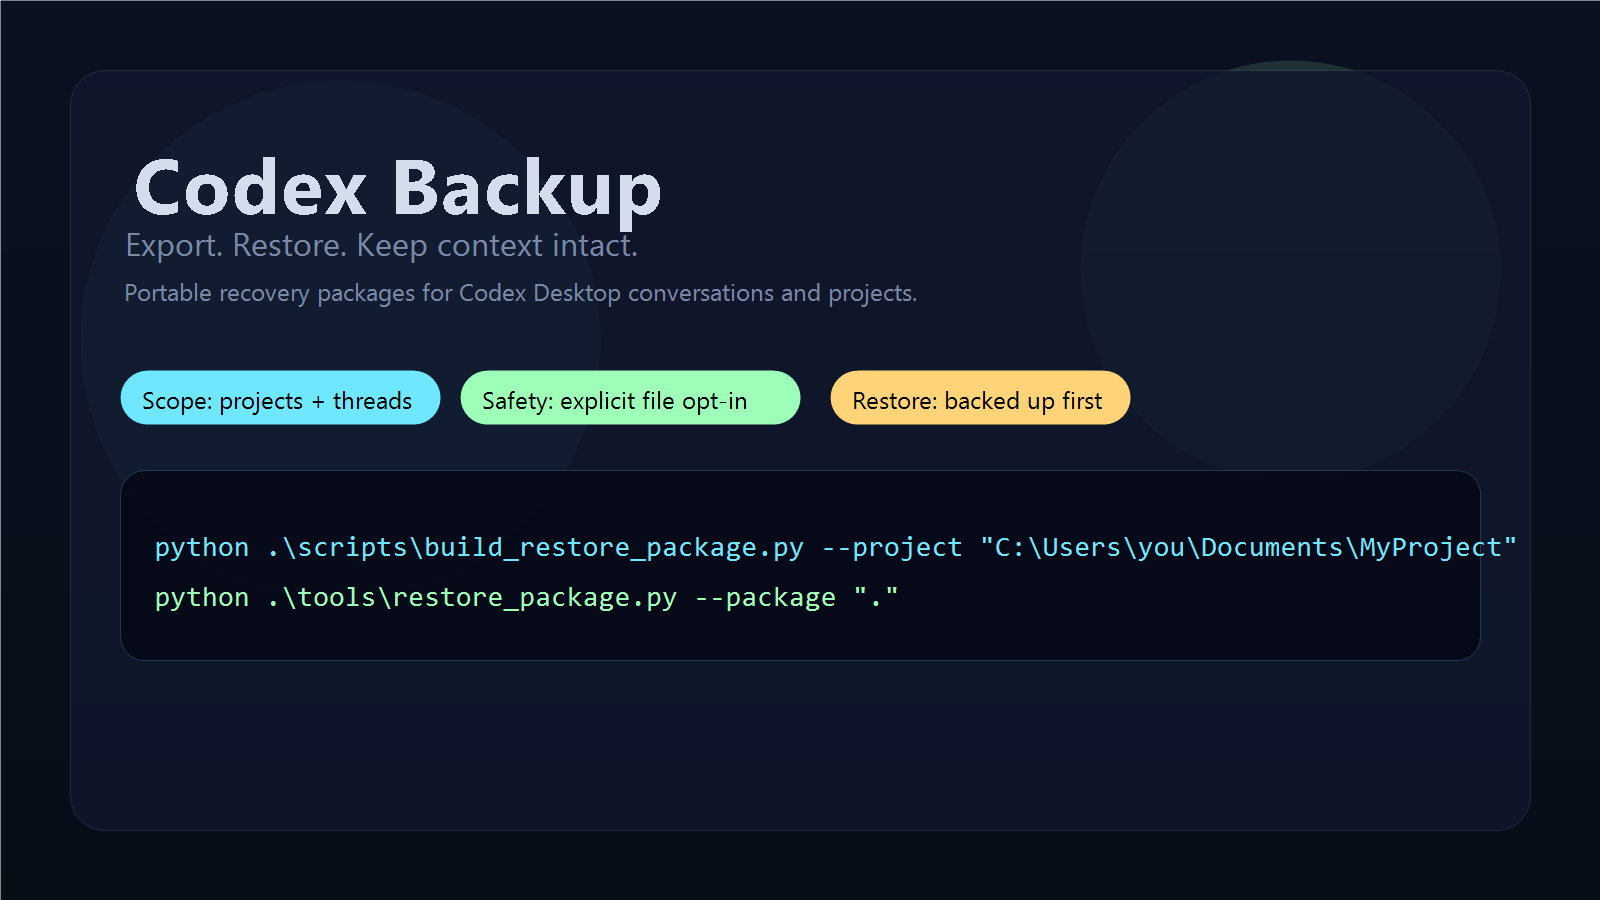
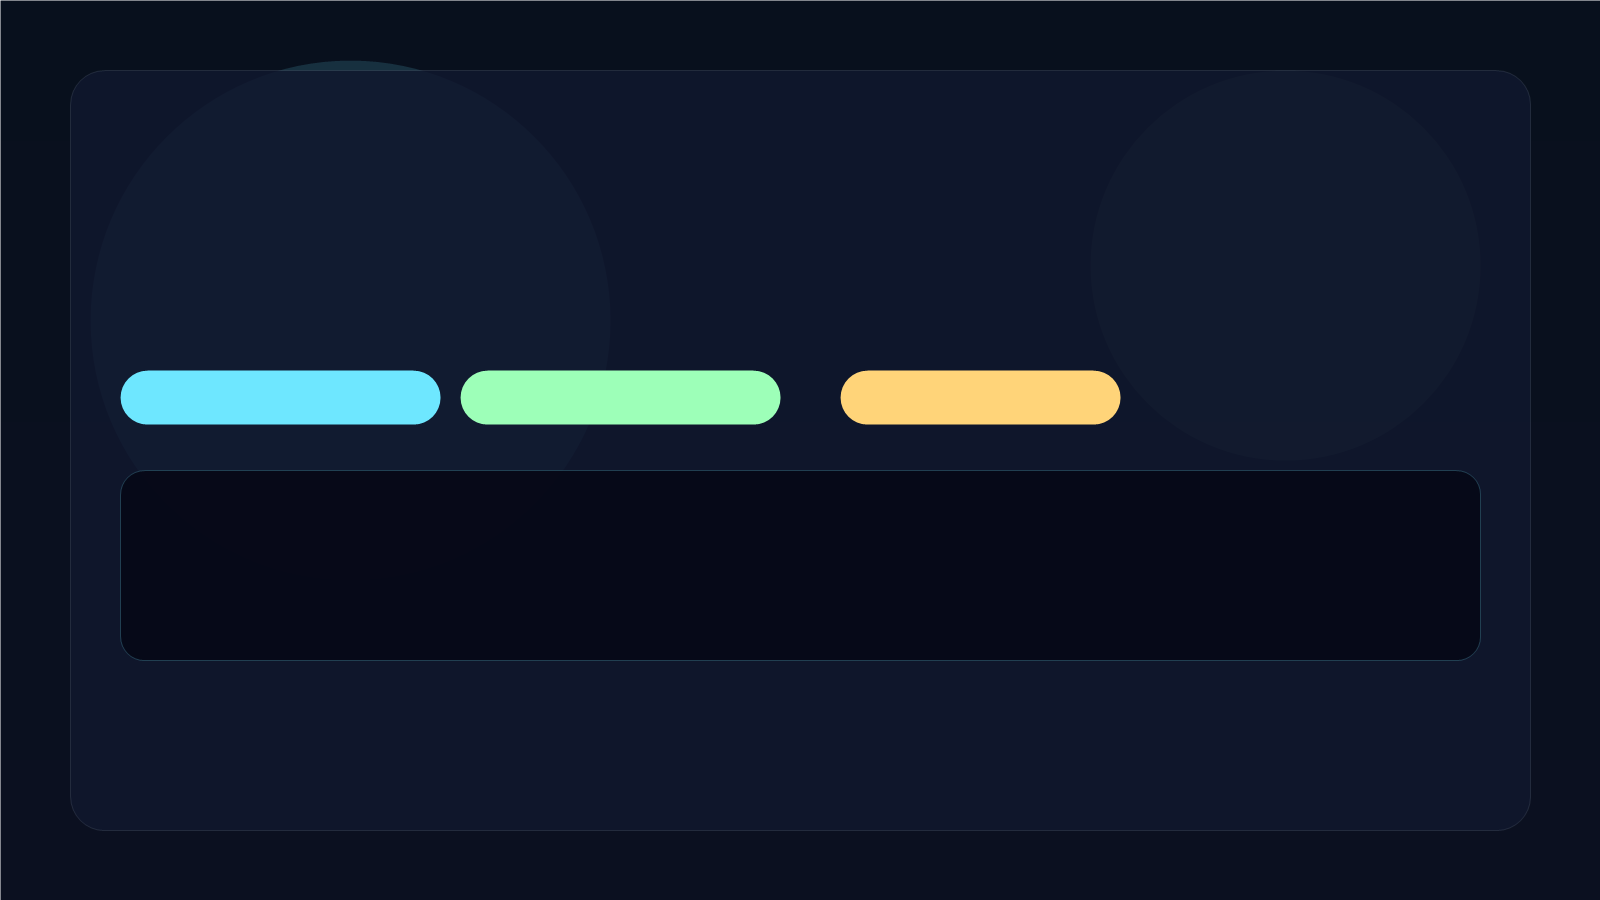
Improve public project explanation and bilingual application copy

diff --git a/README.md b/README.md
@@ -4,6 +4,24 @@ Package local Codex Desktop projects or individual conversations into a portable
 
 Status: pre-1.0, Windows-focused, designed for local Codex Desktop recovery and migration workflows.
 
+Codex Backup is a recovery and migration tool for local Codex Desktop state. It is built for a practical maintainer workflow: preserve useful Codex context before changing machines, rebuilding an environment, moving a repository, or recovering from local profile damage. Instead of manually copying `.codex` files or editing SQLite state by hand, the tool produces a reviewable package that contains only the selected conversation metadata, rollout history, workspace hints, and optional project files needed to restore the chosen work.
+
+For open-source maintainers, the core value is straightforward:
+
+- keep debugging and implementation context when moving between machines
+- preserve important threads before resetting or repairing a development environment
+- recover selected Codex work without copying an entire local profile
+- avoid manual editing of Codex SQLite and JSONL state
+
+This is not a generic backup of everything in `.codex`. It is a targeted export-and-restore workflow for the specific projects and conversations you choose.
+
+## Typical maintainer use cases
+
+- Move an active repository and its related Codex conversations to another Windows machine
+- Preserve a long debugging thread before rebuilding a workstation or virtual machine
+- Restore a specific project context after local Codex profile corruption
+- Archive a meaningful piece of development history without exporting unrelated conversations
+
 This repository contains:
 
 - a Codex skill entry point in `SKILL.md`
@@ -43,7 +61,38 @@ The resulting package can include:
 
 ## Why this exists
 
-Codex Desktop stores useful project and conversation state locally, but there is no built-in export flow for moving a project or a single thread between machines. This tool creates a restore-ready archive that keeps the minimum state needed for Codex Desktop to show the restored conversations again.
+Codex Desktop stores useful project and conversation state locally, but there is no built-in export flow for moving a project or a single thread between machines. In practice, that means maintainers end up doing one of three unsafe things:
+
+- copying large parts of `.codex` without knowing which files matter
+- manually editing `state_5.sqlite` and related JSONL files
+- losing valuable thread history during machine migration or local recovery
+
+Codex Backup exists to replace that ad hoc process with a repeatable workflow. It creates a restore-ready archive that keeps the minimum state needed for Codex Desktop to show the restored conversations again, while still allowing optional inclusion of the related project files when a full project migration is actually needed.
+
+## What this tool actually does
+
+At a high level, Codex Backup performs four jobs:
+
+1. It identifies the conversations you want to preserve.
+   - You can select them by project root, thread ID, or title keyword.
+2. It extracts the relevant local Codex metadata.
+   - This includes selected rows from `~/.codex/state_5.sqlite`, matching session index entries, workspace-root hints, and rollout history files.
+3. It optionally copies the related project files.
+   - Project-file inclusion is explicit and conservative by default.
+4. It assembles everything into a portable package with restore instructions.
+   - The output is a folder plus zip archive that can be reviewed, moved, archived, or restored on another Windows machine.
+
+The result is not a generic backup of everything in `.codex`. It is a targeted restore package for the specific threads and project roots you selected.
+
+## Why this is safer than manual copying
+
+Manual migration usually mixes together too much state and too little structure. Codex Backup reduces that risk in three ways:
+
+1. It narrows the export to selected threads and project roots.
+2. It records what was exported in a manifest and restore instructions.
+3. It backs up the target profile before any restore merge happens.
+
+That combination matters because Codex Desktop state is spread across a database, JSONL indices, rollout files, and workspace-root metadata. Copying only one of those pieces is often insufficient; copying everything is often excessive. This tool sits in the middle and tries to keep the export both usable and reviewable.
 
 ## Features
 
@@ -67,6 +116,21 @@ The generated archive contains a predictable layout:
 - `project_files/...` when project files were included
 - `tools/restore_package.py`
 
+Each part has a specific purpose:
+
+- `backup_state.sqlite`
+  - a narrowed copy of Codex thread metadata containing only the selected conversations and related rows
+- `session_index.jsonl`
+  - the conversation index entries needed for Codex Desktop to list restored threads
+- `.codex-global-state.json`
+  - workspace-root hints so restored threads still point to meaningful project locations
+- `rollouts/...`
+  - the underlying thread history files that preserve conversation context
+- `project_files/...`
+  - the optional source tree for actual project migration, not just thread restoration
+- `restore_package.py`
+  - the restore helper that merges selected state into the target profile and backs up the target files first
+
 ## Safety defaults
 
 The project handles local conversation history and may copy project files. Public use needs conservative defaults.
@@ -76,6 +140,13 @@ The project handles local conversation history and may copy project files. Publi
 - Existing target Codex state files are backed up before restore
 
 You should still inspect package contents before sharing a restore archive with anyone else.
+
+## What this tool does not try to do
+
+- It does not back up every conversation in your local Codex profile unless you explicitly select them.
+- It does not promise compatibility across future Codex Desktop storage changes.
+- It does not solve collaborative cloud sync for Codex state.
+- It does not merge two independently edited histories of the same conversation.
 
 ## Data handling
 
@@ -87,6 +158,57 @@ This project reads and copies local Codex Desktop state. Depending on the comman
 - project source code
 
 Use thread-only exports when you do not need source files. Use project exports only for folders you intend to share or migrate.
+
+## Detailed workflow
+
+### Export flow
+
+When you run `build_restore_package.py`, the tool performs the following sequence:
+
+1. Load local Codex state from `%USERPROFILE%\.codex`.
+   - It reads `state_5.sqlite`, `session_index.jsonl`, and `.codex-global-state.json`.
+2. Resolve the target conversations.
+   - By project root: select threads whose `cwd` matches the chosen root.
+   - By thread ID: select those exact threads.
+   - By title keyword: match against stored thread titles.
+3. Build a reduced database.
+   - The script copies the local database, deletes unrelated thread rows, and keeps only the selected thread-related records.
+4. Rebuild the session index subset.
+   - Only the selected thread entries are retained or synthesized when needed.
+5. Capture workspace-root hints.
+   - The package stores the project-root mappings needed to make the restored threads usable later.
+6. Copy and normalize rollout history.
+   - The tool copies each selected rollout file and normalizes `model_provider` metadata to `custom` for current Codex Desktop compatibility.
+7. Optionally copy project files.
+   - Explicit `--project` roots are included.
+   - Thread-selected cwd folders are only included when `--include-thread-cwd-files` is passed.
+8. Write a manifest and restore instructions.
+   - The manifest records thread metadata, included projects, and rollout mappings.
+9. Validate and zip the result.
+   - The final archive is checked for required files before it is returned.
+
+### Restore flow
+
+When you run `restore_package.py`, the tool performs a controlled merge into another local Codex Desktop profile:
+
+1. Open the package folder or extract the package zip.
+2. Read `manifest.json`.
+3. Resolve destination project folders.
+   - If you pass `--project-target`, project files are restored to those explicit locations.
+   - Otherwise the original source-root paths are reused when possible.
+4. Back up the target profile files.
+   - Existing `state_5.sqlite`, `session_index.jsonl`, and `.codex-global-state.json` are copied before any merge happens.
+5. Restore rollout files.
+   - The selected rollout history is copied into the target Codex home.
+6. Merge thread metadata into the target database.
+   - Existing rows for the selected thread IDs are removed first.
+   - Replacement rows are then inserted from the package subset database.
+7. Patch project and rollout paths.
+   - The tool rewrites relevant paths so restored threads point to the correct target locations.
+8. Merge session index and global state.
+   - Selected conversations become visible again in the target profile, with updated workspace-root hints.
+9. Restart Codex Desktop.
+   - At that point the restored project or thread should appear in the target installation.
 
 ## Requirements
 
@@ -189,6 +311,8 @@ Before sharing or restoring a package:
 4. Optionally copy project files into `project_files/`.
 5. On restore, back up the target `.codex` state files.
 6. Merge the selected threads and metadata into the target Codex profile.
+7. Rewrite relevant project and rollout paths so restored threads point to the correct local locations.
+8. Preserve current Codex Desktop visibility by normalizing stored provider metadata where needed.
 
 ## Limitations
 

diff --git a/docs/final-application-submission.md b/docs/final-application-submission.md
@@ -13,13 +13,25 @@ Use this file as the final working copy for the OpenAI `Codex for Open Source` a
 
 Codex Backup exports and restores local Codex Desktop conversations and project state as portable recovery packages for migration and recovery workflows on Windows.
 
-## Final draft: Why this repository deserves support
+## English: Why this repository deserves support
 
 Codex Backup addresses a practical gap in the Codex Desktop workflow: there is no built-in, maintainer-friendly path for exporting project context, thread metadata, and rollout history for migration or recovery. This project turns that manual recovery work into a repeatable process with explicit safety defaults, tests, and restore instructions. It is useful for open-source maintainers who move across machines, preserve debugging context, or need to recover active work without editing local Codex state by hand.
 
-## Final draft: How the API credits would be used
+## English: How the API credits would be used
 
 API credits would be used to improve validation and recovery tooling around Codex project portability: package preflight checks, package inspection summaries, restore verification, and clearer maintainer guidance for sensitive project exports. The credits would directly support improving reliability for maintainers who use Codex on active open-source projects and need a trustworthy way to migrate or recover local working context.
+
+## Turkish: Short repository description
+
+Codex Backup, Windows üzerinde yerel Codex Desktop konuşmalarını ve proje durumunu taşınabilir kurtarma paketleri olarak dışa aktaran ve geri yükleyen bir araçtır.
+
+## Turkish: Why this repository deserves support
+
+Codex Backup, Codex Desktop iş akışındaki pratik bir boşluğu hedefliyor: proje bağlamını, thread meta verilerini ve rollout geçmişini taşıma veya kurtarma amacıyla dışa aktarmak için yerleşik ve bakımcı dostu bir yol yok. Bu proje, elde SQLite düzenleme veya `.codex` dosyalarını rastgele kopyalama gibi riskli işlemleri; açık güvenlik varsayılanları, testler ve geri yükleme talimatları olan tekrar edilebilir bir sürece dönüştürüyor. Farklı makinelerde çalışan, hata ayıklama bağlamını korumak isteyen veya aktif geliştirme bağlamını yerel Codex durumunu elle düzenlemeden geri kazanmak zorunda olan açık kaynak bakımcıları için kullanışlıdır.
+
+## Turkish: How the API credits would be used
+
+API kredileri, Codex proje taşınabilirliği etrafındaki doğrulama ve kurtarma araçlarını geliştirmek için kullanılacaktır: paket ön kontrolü, paket içeriği özetleri, geri yükleme doğrulaması ve hassas proje dışa aktarımları için daha açık bakımcı rehberliği. Amaç, aktif açık kaynak projelerinde Codex kullanan bakımcılar için güvenilirliği artırmak, manuel kurtarma yükünü azaltmak ve yerel geliştirme bağlamını taşıma veya geri yükleme sırasında daha yüksek güven sağlamaktır.
 
 ## Recommended supporting evidence to mention once available
 